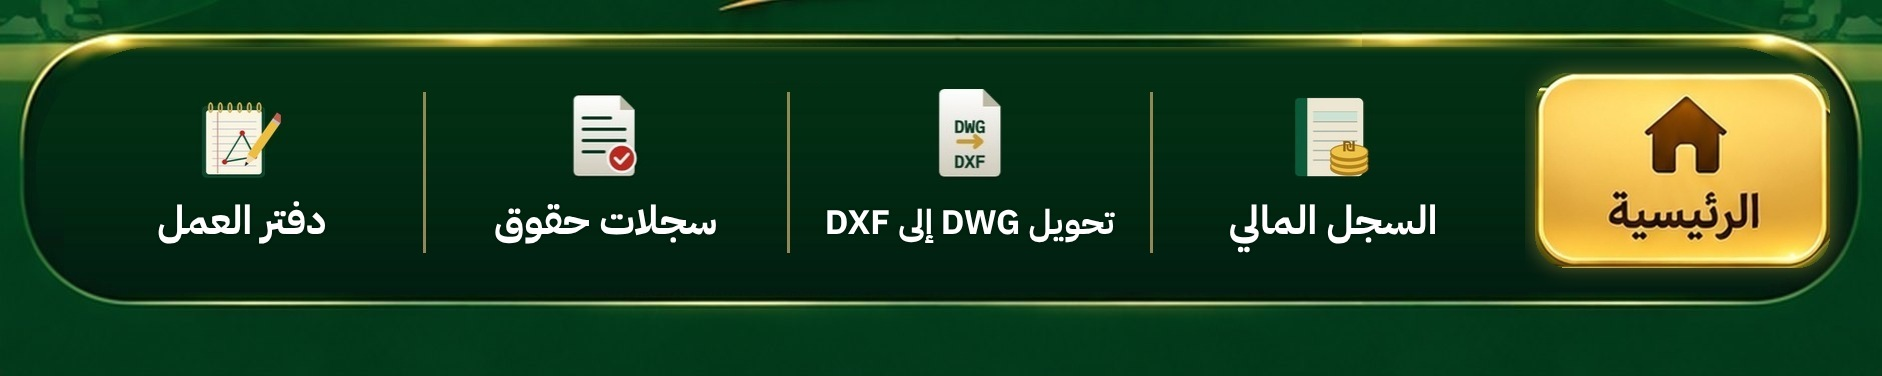
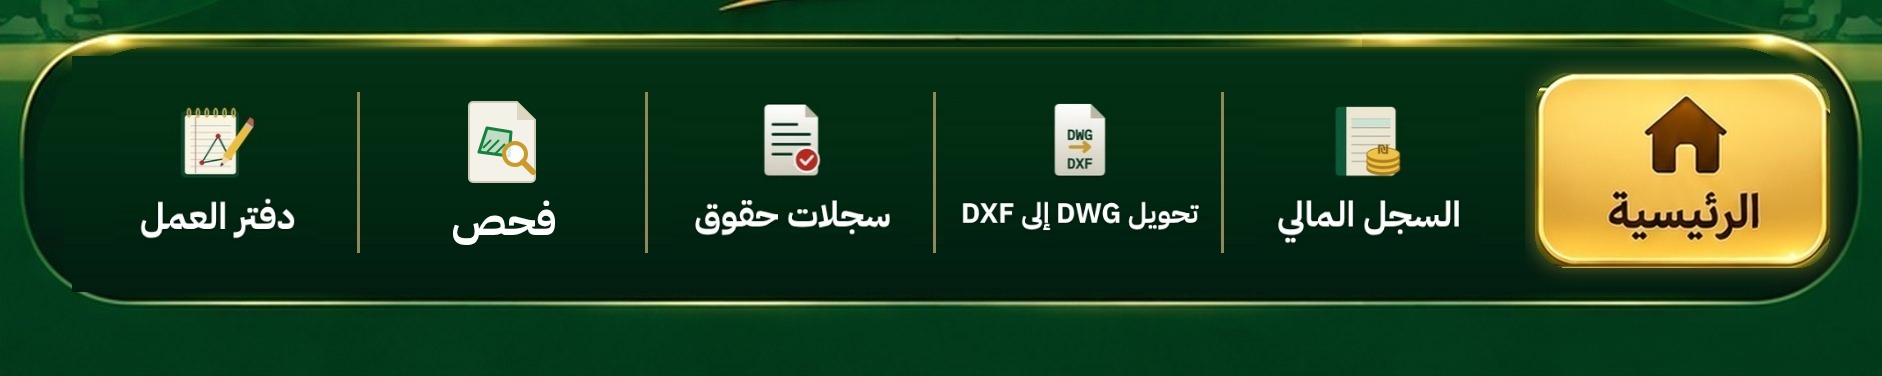
الرئيسية: إخفاء بطاقتي AI Architect وتصميم البناء، وإضافة «فحص» في الشريط السفلي لموقع الإدارة المدنية
Claude-Session: https://claude.ai/code/session_01M4E7nUbg4qKBbajUbwzYnM

diff --git a/app/src/main/assets/home.html b/app/src/main/assets/home.html
@@ -126,14 +126,6 @@ body.open .sheet-bg{opacity:1;pointer-events:auto}
     <a class="hit" href="fanni/index.html" aria-label="تصميم الإفراز الفني" style="left:3.19%;top:0.70%;width:94.05%;height:90.88%"></a>
   </div>
   <div class="gap" style="background-image:url(img/ui-g3.png)"></div>
-  <div class="ui"><img src="img/ui-p15.jpg" alt="">
-    <a class="hit" href="ai-architect/index.html" aria-label="AI Architect" style="left:3.19%;top:0.70%;width:94.05%;height:90.88%"></a>
-  </div>
-  <div class="gap" style="background-image:url(img/ui-g3.png)"></div>
-  <div class="ui"><img src="img/ui-p14.jpg" alt="">
-    <a class="hit" href="bina/index.html" aria-label="تصميم البناء" style="left:3.19%;top:0.70%;width:94.05%;height:90.88%"></a>
-  </div>
-  <div class="gap" style="background-image:url(img/ui-g3.png)"></div>
   <div class="ui"><img src="img/ui-p9.jpg" alt="">
     <a class="hit" href="level/index.html" aria-label="دفتر الليفل" style="left:3.19%;top:0.70%;width:94.05%;height:90.88%"></a>
   </div>
@@ -146,10 +138,11 @@ body.open .sheet-bg{opacity:1;pointer-events:auto}
   <div class="ui">
     <img src="img/ui-nav.jpg" alt="">
     <button class="hit" type="button" data-nav="home" aria-label="الرئيسية" style="left:81.4%;top:3.19%;width:15.94%;height:75.53%"></button>
-    <a class="hit" href="awraq/index.html#ledger" aria-label="السجل المالي" style="left:61.17%;top:3.19%;width:19.33%;height:75.53%"></a>
-    <a class="hit" href="dwg/index.html" aria-label="تحويل DWG إلى DXF" style="left:41.84%;top:3.19%;width:19.33%;height:75.53%"></a>
-    <a class="hit" href="https://pla.pna.ps/ar/Works" aria-label="سجلات حقوق" style="left:22.52%;top:3.19%;width:19.33%;height:75.53%"></a>
-    <a class="hit" href="notes/index.html" aria-label="دفتر العمل" style="left:3.19%;top:3.19%;width:19.33%;height:75.53%"></a>
+    <a class="hit" href="awraq/index.html#ledger" aria-label="السجل المالي" style="left:65.04%;top:3.19%;width:15.30%;height:75.53%"></a>
+    <a class="hit" href="dwg/index.html" aria-label="تحويل DWG إلى DXF" style="left:49.73%;top:3.19%;width:15.30%;height:75.53%"></a>
+    <a class="hit" href="https://pla.pna.ps/ar/Works" aria-label="سجلات حقوق" style="left:34.43%;top:3.19%;width:15.30%;height:75.53%"></a>
+    <a class="hit" href="https://experience.arcgis.com/experience/b75d27c1594f458b8acdfeaf7e78c100" aria-label="فحص – الإدارة المدنية" style="left:19.13%;top:3.19%;width:15.30%;height:75.53%"></a>
+    <a class="hit" href="notes/index.html" aria-label="دفتر العمل" style="left:3.83%;top:3.19%;width:15.30%;height:75.53%"></a>
   </div>
 </nav>
 
